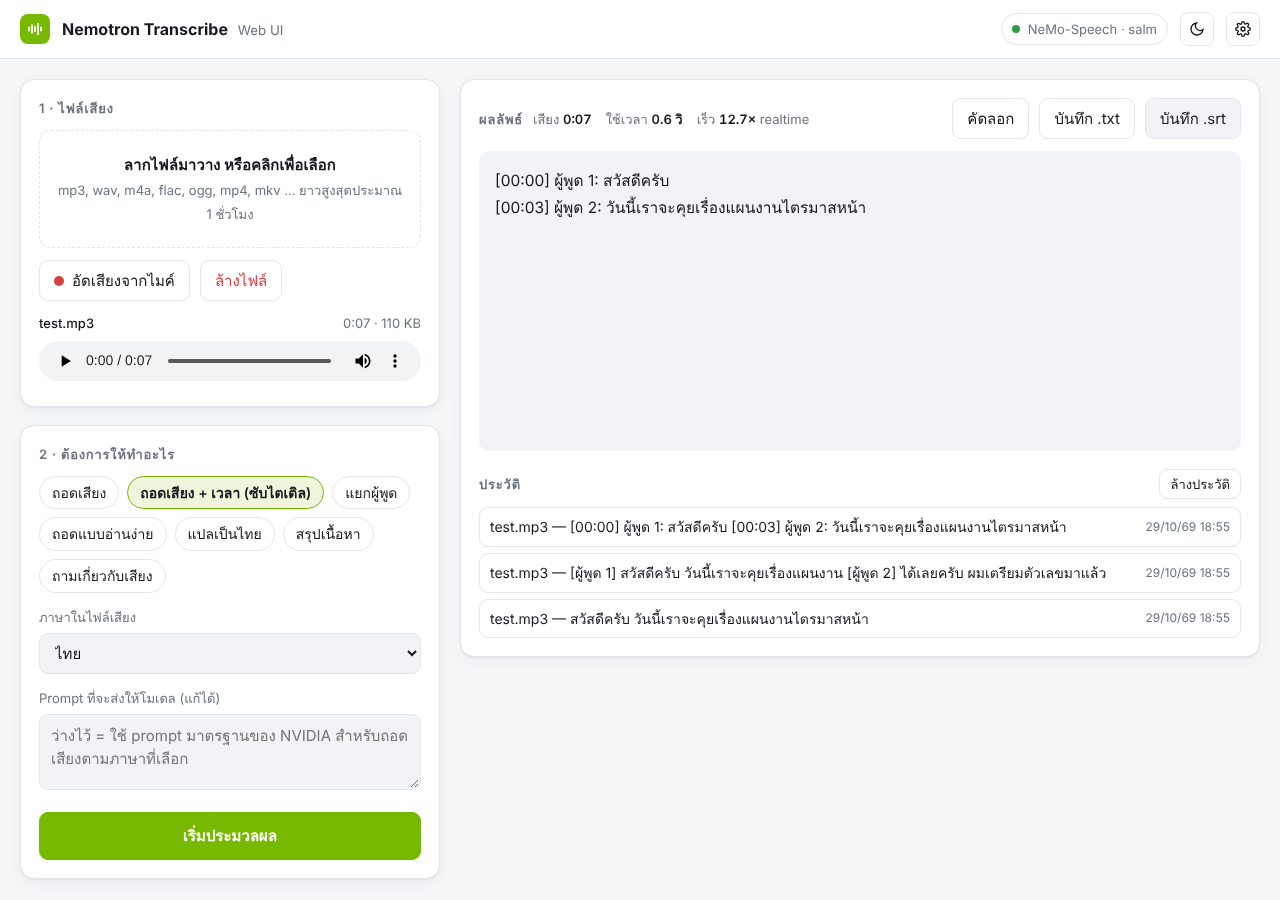
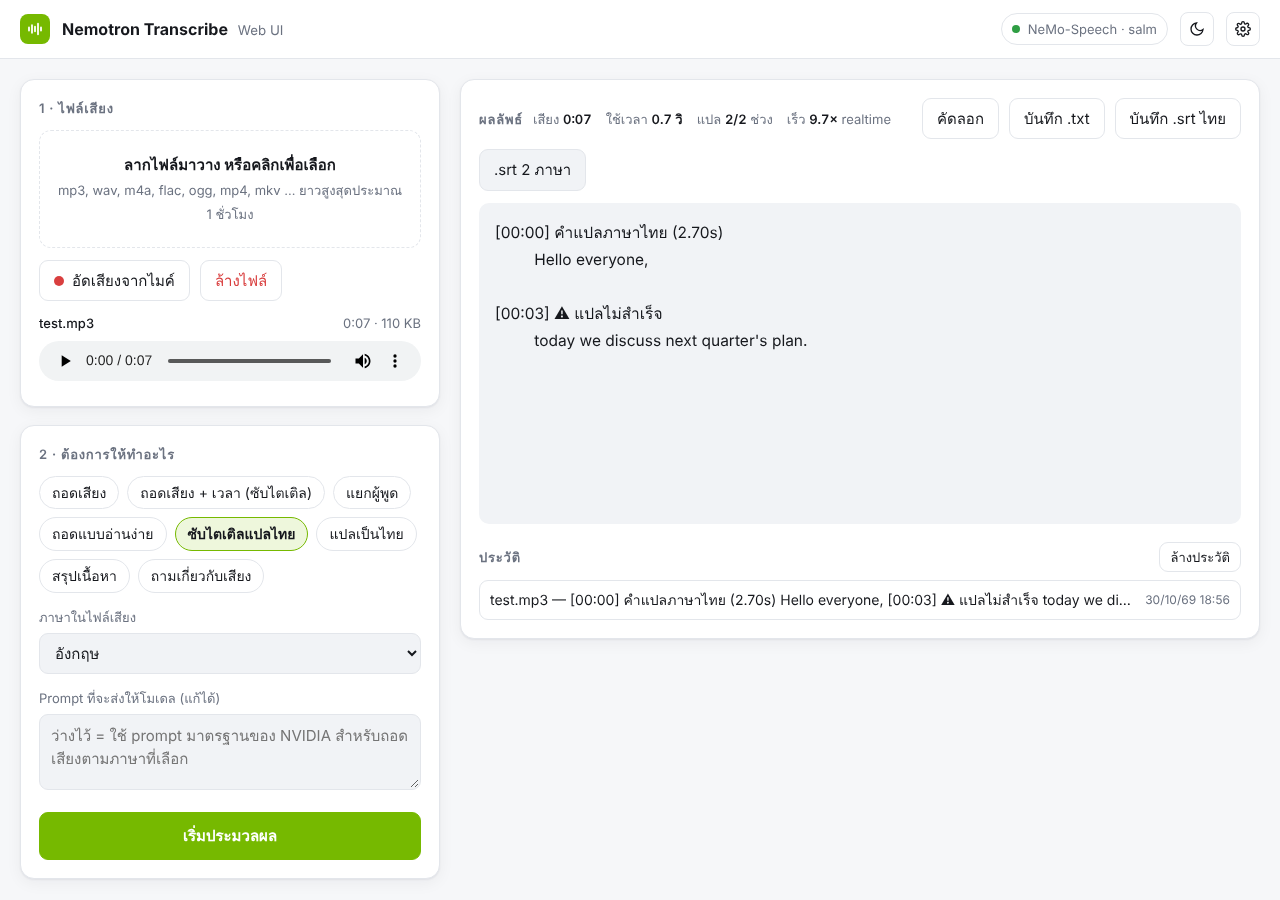
Add translated Thai subtitles
New preset 'ซับไตเติลแปลไทย': transcribe with word timestamps to get
subtitle cues, then cut each cue's audio and ask the model to translate
that speech into Thai (NVIDIA's documented translation prompt). The
subtitles keep the original timing, which a whole-file translation does
not return. Cues are translated 4 at a time (TRANSLATE_CONCURRENCY) and
stream in as they finish. Exports a Thai .srt and a Thai + original
.srt; a cue that fails is marked and falls back to the original text.

Claude-Session: https://claude.ai/code/session_01343dUhoxEd3ZLeYKGTP9ML

diff --git a/static/index.html b/static/index.html
@@ -168,6 +168,7 @@
         <button class="btn" id="copyBtn" disabled>คัดลอก</button>
         <button class="btn" id="saveBtn" disabled>บันทึก .txt</button>
         <button class="btn" id="srtBtn" hidden>บันทึก .srt</button>
+        <button class="btn" id="srt2Btn" hidden>.srt 2 ภาษา</button>
       </div>
       <details class="reason" id="reasonBox" hidden><summary>ความคิดของโมเดล (reasoning)</summary><pre id="reasonText"></pre></details>
       <div id="output" class="empty">เลือกไฟล์เสียง แล้วกด “เริ่มประมวลผล”</div>
@@ -292,6 +293,7 @@ const PRESETS = [
   { id: "timestamps", label: "ถอดเสียง + เวลา (ซับไตเติล)", prompt: "", timestamps: true },
   { id: "speakers", label: "แยกผู้พูด", prompt: SPEAKER_PROMPT, addLang: true },
   { id: "readable", label: "ถอดแบบอ่านง่าย", prompt: "Create a readable transcript of this recording with punctuation. Omit verbal fillers and accidental repetitions, but retain the remaining wording and meaning. Return only the transcript.", addLang: true },
+  { id: "subth", label: "ซับไตเติลแปลไทย", prompt: "", timestamps: true, translateTo: "th" },
   { id: "translate", label: "แปลเป็นไทย", prompt: "Translate the speech into Thai." },
   { id: "summary", label: "สรุปเนื้อหา", prompt: "Summarize the content of this audio in Thai." },
   { id: "qa", label: "ถามเกี่ยวกับเสียง", prompt: "Based on the audio, answer in Thai: " },
@@ -358,7 +360,7 @@ $("recBtn").onclick = async () => {
 };
 
 // ---------- run ----------
-let controller = null, resultText = "", srtText = "", lastName = "transcript";
+let controller = null, resultText = "", srtText = "", srt2Text = "", lastName = "transcript";
 // "<spk:0> hello <spk:1> hi" -> one line per speaker turn.
 function prettify(t) {
   return t.replace(/\s*<spk:(\d+)>\s*/g, (m, n, off) => (off ? "\n\n" : "") + `[ผู้พูด ${+n + 1}] `);
@@ -378,6 +380,18 @@ function fromCues(tr) {
   });
   return { text: lines.join("\n"), srt: srt.join("\n") };
 }
+// Translated subtitles: one cue per line, the translation first and the original below it.
+function fromTranslated(cues) {
+  const lines = [], srt = [], srt2 = [];
+  cues.forEach((c, i) => {
+    const th = c.th == null ? "…" : (c.th || (c.error ? "⚠ แปลไม่สำเร็จ" : ""));
+    lines.push(`[${clock(c.start)}] ${th}` + (c.text ? `\n         ${c.text}` : ""));
+    const time = `${i + 1}\n${clock(c.start, true)} --> ${clock(c.end, true)}\n`;
+    srt.push(time + (c.th || c.text) + "\n");
+    srt2.push(time + ([c.th, c.text].filter(Boolean).join("\n") || "…") + "\n");
+  });
+  return { text: lines.join("\n\n"), srt: srt.join("\n"), srt2: srt2.join("\n") };
+}
 function setOutput(text, isErr) {
   const o = $("output"); o.classList.toggle("empty", !text && !isErr);
   if (isErr) { o.innerHTML = ""; const d = document.createElement("div"); d.className = "err"; d.textContent = text; o.appendChild(d); }
@@ -387,6 +401,7 @@ function renderStats(s) {
   const parts = [];
   if (s.duration) parts.push(`เสียง <b>${fmtTime(s.duration)}</b>`);
   if (s.elapsed != null) parts.push(`ใช้เวลา <b>${s.elapsed.toFixed(1)} วิ</b>`);
+  if (s.total) parts.push(`แปล <b>${s.translated}/${s.total}</b> ช่วง`);
   if (s.duration && s.elapsed > 0.5 && s.done) parts.push(`เร็ว <b>${(s.duration / s.elapsed).toFixed(1)}×</b> realtime`);
   $("stats").innerHTML = parts.map(x => `<span>${x}</span>`).join("");
 }
@@ -397,13 +412,15 @@ $("runBtn").onclick = async () => {
   fd.append("file", audioFile, audioFile.name);
   fd.append("prompt", $("prompt").value.trim()); fd.append("language", $("lang").value);
   fd.append("timestamps", currentPreset().timestamps ? "true" : "false");
+  fd.append("translate_to", currentPreset().translateTo || "");
   fd.append("system", settings.system); fd.append("server_url", settings.server_url); fd.append("model", settings.model);
   fd.append("temperature", settings.temperature); fd.append("max_tokens", settings.max_tokens);
 
-  controller = new AbortController(); resultText = ""; srtText = ""; let raw = "", reasoning = "", errored = false;
-  $("srtBtn").hidden = true;
+  controller = new AbortController(); resultText = ""; srtText = ""; srt2Text = ""; let raw = "", reasoning = "", errored = false;
+  let cues = null;
+  $("srtBtn").hidden = $("srt2Btn").hidden = true;
   lastName = audioFile.name.replace(/\.[^.]+$/, "");
-  const st = { duration: 0, elapsed: null, done: false }; const t0 = performance.now();
+  const st = { duration: 0, elapsed: null, done: false, total: 0, translated: 0 }; const t0 = performance.now();
   $("runBtn").innerHTML = '<span class="spinner"></span> กำลังประมวลผล… (คลิกเพื่อหยุด)';
   $("copyBtn").disabled = $("saveBtn").disabled = true; $("reasonBox").hidden = true; $("reasonText").textContent = "";
   setOutput(""); $("output").classList.add("empty"); $("output").textContent = "กำลังอัปโหลดและแปลงไฟล์เสียง…";
@@ -424,6 +441,13 @@ $("runBtn").onclick = async () => {
         const data = line.slice(5).trim(); if (data === "[DONE]") continue;
         let msg; try { msg = JSON.parse(data); } catch { continue; }
         if (msg.meta) { st.duration = msg.meta.duration; continue; }
+        if (msg.translate_start || msg.translated) {
+          if (msg.translate_start) { cues = msg.translate_start.cues.map(c => ({ ...c, th: null })); st.total = cues.length; }
+          else { const t = msg.translated; Object.assign(cues[t.index], { th: t.text, error: t.error }); st.translated++; }
+          const t = fromTranslated(cues); resultText = t.text; srtText = t.srt; srt2Text = t.srt2; setOutput(resultText);
+          continue;
+        }
+        if (msg.translate_done) continue;
         if (msg.error) { throw new Error(typeof msg.error === "string" ? msg.error : (msg.error.message || JSON.stringify(msg.error))); }
         const delta = msg.choices?.[0]?.delta || {};
         const r = delta.reasoning_content ?? delta.reasoning;
@@ -441,7 +465,8 @@ $("runBtn").onclick = async () => {
   } finally {
     clearInterval(tick); st.elapsed = (performance.now() - t0) / 1000; st.done = !errored; renderStats(st);
     controller = null; $("runBtn").textContent = "เริ่มประมวลผล";
-    $("copyBtn").disabled = $("saveBtn").disabled = !resultText; $("srtBtn").hidden = !srtText;
+    $("copyBtn").disabled = $("saveBtn").disabled = !resultText; $("srtBtn").hidden = !srtText; $("srt2Btn").hidden = !srt2Text;
+    $("srtBtn").textContent = srt2Text ? "บันทึก .srt ไทย" : "บันทึก .srt";
     if (resultText) addHistory({ name: audioFile?.name || lastName, text: resultText, at: Date.now() });
   }
 };
@@ -453,11 +478,13 @@ $("saveBtn").onclick = () => {
   a.download = lastName + ".txt"; a.click(); URL.revokeObjectURL(a.href);
 };
 
-$("srtBtn").onclick = () => {
+function saveSrt(text, name) {
   const a = document.createElement("a");
-  a.href = URL.createObjectURL(new Blob([srtText], { type: "application/x-subrip;charset=utf-8" }));
-  a.download = lastName + ".srt"; a.click(); URL.revokeObjectURL(a.href);
-};
+  a.href = URL.createObjectURL(new Blob([text], { type: "application/x-subrip;charset=utf-8" }));
+  a.download = name; a.click(); URL.revokeObjectURL(a.href);
+}
+$("srtBtn").onclick = () => saveSrt(srtText, lastName + (srt2Text ? ".th.srt" : ".srt"));
+$("srt2Btn").onclick = () => saveSrt(srt2Text, lastName + ".th-orig.srt");
 
 // ---------- history (this browser only) ----------
 let hist = store.get("history", []);
@@ -469,7 +496,7 @@ function renderHistory() {
     const s = document.createElement("span"); s.textContent = h.name + " — " + h.text.slice(0, 120);
     const t = document.createElement("time"); t.textContent = new Date(h.at).toLocaleString("th-TH", { dateStyle: "short", timeStyle: "short" });
     li.append(s, t);
-    li.onclick = () => { resultText = h.text; srtText = ""; $("srtBtn").hidden = true; lastName = h.name.replace(/\.[^.]+$/, ""); setOutput(h.text); $("stats").innerHTML = "";
+    li.onclick = () => { resultText = h.text; srtText = srt2Text = ""; $("srtBtn").hidden = $("srt2Btn").hidden = true; lastName = h.name.replace(/\.[^.]+$/, ""); setOutput(h.text); $("stats").innerHTML = "";
       $("copyBtn").disabled = $("saveBtn").disabled = false; };
     $("historyList").appendChild(li);
   });

diff --git a/app.py b/app.py
@@ -7,12 +7,15 @@ Nemotron 3.5 Transcribe and streams the answer back. Two servers are supported:
 - vLLM with the NeMo Speech plugin: Linux/WSL2, Hugging Face checkpoint.
 """
 
+import asyncio
 import base64
+import io
 import json
 import os
 import subprocess
 import tempfile
 import threading
+import wave
 import webbrowser
 from pathlib import Path
 
@@ -47,6 +50,11 @@ LANGUAGE_NAMES = {
     "ar": "Arabic", "tr": "Turkish", "nl": "Dutch",
 }
 
+# Requests sent to the model server at once while translating subtitle cues.
+TRANSLATE_CONCURRENCY = int(os.environ.get("TRANSLATE_CONCURRENCY", "4"))
+# Audio kept around each cue when it is cut out for translation, in seconds.
+CUE_PAD = 0.15
+
 app = FastAPI(title="Nemotron Transcribe Web UI")
 
 
@@ -80,6 +88,52 @@ async def server_info(server_url: str) -> dict:
         data = resp.json().get("data", [])
     kind = "vllm" if any(m.get("owned_by") == "vllm" for m in data) else "nemo-speech"
     return {"kind": kind, "models": [m["id"] for m in data if "id" in m]}
+
+
+def wav_pcm(wav: bytes) -> bytes:
+    """PCM samples of a 16 kHz mono 16-bit WAV."""
+    i = wav.find(b"data")
+    return wav[i + 8:] if i >= 0 else wav[44:]
+
+
+def wav_segment(pcm: bytes, start: float, end: float) -> bytes:
+    """Cut [start, end] seconds (plus a little padding) out of 16 kHz mono PCM as a WAV."""
+    a = max(0, int((start - CUE_PAD) * 16000)) * 2
+    b = min(len(pcm), int((end + CUE_PAD) * 16000) * 2)
+    buf = io.BytesIO()
+    with wave.open(buf, "wb") as w:
+        w.setnchannels(1)
+        w.setsampwidth(2)
+        w.setframerate(16000)
+        w.writeframes(pcm[a:b])
+    return buf.getvalue()
+
+
+def fallback_cues(duration: float, step: float = 8.0) -> list[dict]:
+    """Fixed windows, used when the server returns no subtitle cues."""
+    cues, t = [], 0.0
+    while t < duration:
+        cues.append({"start": t, "end": min(duration, t + step), "text": ""})
+        t += step
+    return cues
+
+
+async def translate_audio(client: httpx.AsyncClient, server_url: str, model: str,
+                          wav: bytes, target: str, language: str) -> str:
+    payload = {
+        "model": model,
+        "messages": [{"role": "user", "content": [
+            {"type": "input_audio", "input_audio": {"data": base64.b64encode(wav).decode(), "format": "wav"}},
+            # NVIDIA's speech translation prompt (NeMo-Speech.cpp docs/salm/prompts.md).
+            {"type": "text", "text": f"Translate the speech into {target}."},
+        ]}],
+        "temperature": 0,
+    }
+    if language:
+        payload["language"] = language
+    resp = await client.post(f"{server_url}/v1/chat/completions", json=payload)
+    resp.raise_for_status()
+    return (resp.json()["choices"][0]["message"].get("content") or "").strip()
 
 
 @app.get("/")
@@ -152,6 +206,7 @@ async def transcribe(
     model: str = Form(DEFAULT_MODEL),
     temperature: float = Form(0.0),
     max_tokens: int = Form(16384),
+    translate_to: str = Form(""),
 ):
     server_url = server_url.rstrip("/")
     suffix = Path(file.filename or "audio").suffix or ".bin"
@@ -174,14 +229,19 @@ async def transcribe(
             raise HTTPException(502, "model server ยังไม่มีโมเดลที่โหลดอยู่")
         model = info["models"][0]
 
+    translate_to = translate_to.strip()
+    if translate_to and info["kind"] != "nemo-speech":
+        raise HTTPException(400, "ซับไตเติลแปลภาษาต้องใช้ NeMo-Speech.cpp (ต้องการเวลาของแต่ละช่วงจาก server)")
+    target_name = LANGUAGE_NAMES.get(translate_to, translate_to)
     payload = build_payload(info["kind"], model, wav, prompt.strip(), language.strip(),
-                            timestamps, system, temperature, max_tokens)
+                            timestamps or bool(translate_to), system, temperature, max_tokens)
 
     async def stream():
         yield sse({"meta": {"model": model, "kind": info["kind"], "duration": duration}})
         try:
             timeout = httpx.Timeout(None, connect=10)
             async with httpx.AsyncClient(timeout=timeout) as client:
+                transcription = None
                 async with client.stream(
                     "POST", f"{server_url}/v1/chat/completions", json=payload
                 ) as resp:
@@ -190,8 +250,48 @@ async def transcribe(
                         yield sse({"error": f"model server ตอบกลับ HTTP {resp.status_code}: {body[:2000]}"})
                         return
                     async for line in resp.aiter_lines():
-                        if line:
-                            yield line + "\n\n"
+                        if not line:
+                            continue
+                        yield line + "\n\n"
+                        if translate_to and line.startswith("data:") and "transcription" in line:
+                            try:
+                                event = json.loads(line[5:])
+                            except ValueError:
+                                continue
+                            choice = (event.get("choices") or [{}])[0]
+                            transcription = (event.get("transcription") or choice.get("transcription")
+                                             or (choice.get("delta") or {}).get("transcription") or transcription)
+                if not translate_to:
+                    return
+
+                # Step 2: translate each subtitle cue's own audio, so the subtitles keep their timing.
+                cues = [{"start": c["start"], "end": c["end"], "text": c.get("text", "")}
+                        for c in (transcription or {}).get("subtitle_cues") or []]
+                if not cues:
+                    cues = fallback_cues(duration)
+                yield sse({"translate_start": {"cues": cues, "target": target_name}})
+                pcm = wav_pcm(wav)
+                limit = asyncio.Semaphore(TRANSLATE_CONCURRENCY)
+
+                async def one(i: int, cue: dict) -> tuple[int, str, str | None]:
+                    async with limit:
+                        try:
+                            text = await translate_audio(client, server_url, model,
+                                                         wav_segment(pcm, cue["start"], cue["end"]),
+                                                         target_name, language.strip())
+                            return i, text, None
+                        except Exception as exc:
+                            return i, "", str(exc)[:300]
+
+                tasks = [asyncio.create_task(one(i, c)) for i, c in enumerate(cues)]
+                try:
+                    for done in asyncio.as_completed(tasks):
+                        i, text, err = await done
+                        yield sse({"translated": {"index": i, "text": text, "error": err}})
+                finally:
+                    for t in tasks:
+                        t.cancel()
+                yield sse({"translate_done": True})
         except httpx.ConnectError:
             yield sse({"error": f"เชื่อมต่อ model server ที่ {server_url} ไม่ได้ — server รันอยู่หรือเปล่า?"})
         except Exception as exc:

diff --git a/README.md b/README.md
@@ -9,7 +9,7 @@ clone ลงเครื่องแล้วดับเบิลคลิก `
 ## ความสามารถ
 
 - อัปโหลดหรือลากไฟล์เสียง/วิดีโอมาวาง (mp3, wav, m4a, flac, mp4 …) ยาวสูงสุดประมาณ 1 ชั่วโมง หรืออัดจากไมค์
-- ถอดเสียง / **มีเวลากำกับ + ส่งออกซับไตเติล .srt** / แยกผู้พูด / ถอดแบบอ่านง่าย / แปลเป็นไทย / สรุป / ถามคำถามเกี่ยวกับเสียง
+- ถอดเสียง / **มีเวลากำกับ + ส่งออกซับไตเติล .srt** / **ซับไตเติลแปลไทย** (ไฟล์ .srt ไทย หรือ 2 ภาษา) / แยกผู้พูด / ถอดแบบอ่านง่าย / แปลเป็นไทย / สรุป / ถามคำถามเกี่ยวกับเสียง
 - รองรับภาษาไทย (ตามเอกสารของ NVIDIA) — เลือกภาษาในไฟล์ได้ เพราะโมเดลไม่ได้ตรวจจับภาษาเอง
 - ข้อความขึ้นแบบ real-time, คัดลอก / บันทึก `.txt`, เก็บประวัติในเบราว์เซอร์, โหมดมืด, ใช้บนมือถือในวง LAN ได้
 - ทุกอย่างรันในเครื่อง ไฟล์เสียงไม่ถูกส่งออกนอกเครื่อง
@@ -86,6 +86,18 @@ start.bat
 ```bat
 git pull
 ```
+
+## ซับไตเติลแปลไทย
+
+ปุ่ม **ซับไตเติลแปลไทย** ทำงาน 2 ขั้น:
+
+1. ถอดเสียงพร้อมเวลา ได้ซับไตเติลภาษาต้นฉบับเป็นช่วงๆ
+2. ตัดเสียงของแต่ละช่วง แล้วให้โมเดลแปลเสียงช่วงนั้นเป็นไทย (prompt `Translate the speech into Thai.` ตามเอกสาร NVIDIA)
+   เวลาของซับจึงตรงกับเสียงจริง — ถ้าแปลแบบทั้งไฟล์ในครั้งเดียว โมเดลจะไม่ส่งเวลากลับมา
+
+ได้ไฟล์ `ชื่อไฟล์.th.srt` (ไทยอย่างเดียว) และ `ชื่อไฟล์.th-orig.srt` (ไทย + ต้นฉบับ) — เลือก **ภาษาในไฟล์เสียง** ให้ถูกก่อนกด
+ใช้เวลามากกว่าถอดเสียงอย่างเดียว เพราะต้องส่งเสียงทุกช่วงไปแปล (ส่งพร้อมกันครั้งละ 4 ช่วง ตั้งได้ด้วย `TRANSLATE_CONCURRENCY`)
+ช่วงไหนแปลไม่สำเร็จจะแสดง ⚠ และใช้ข้อความต้นฉบับในไฟล์ .srt แทน — ต้องใช้ NeMo-Speech.cpp (ไม่รองรับโหมด vLLM)
 
 ## การตั้งค่า
 
